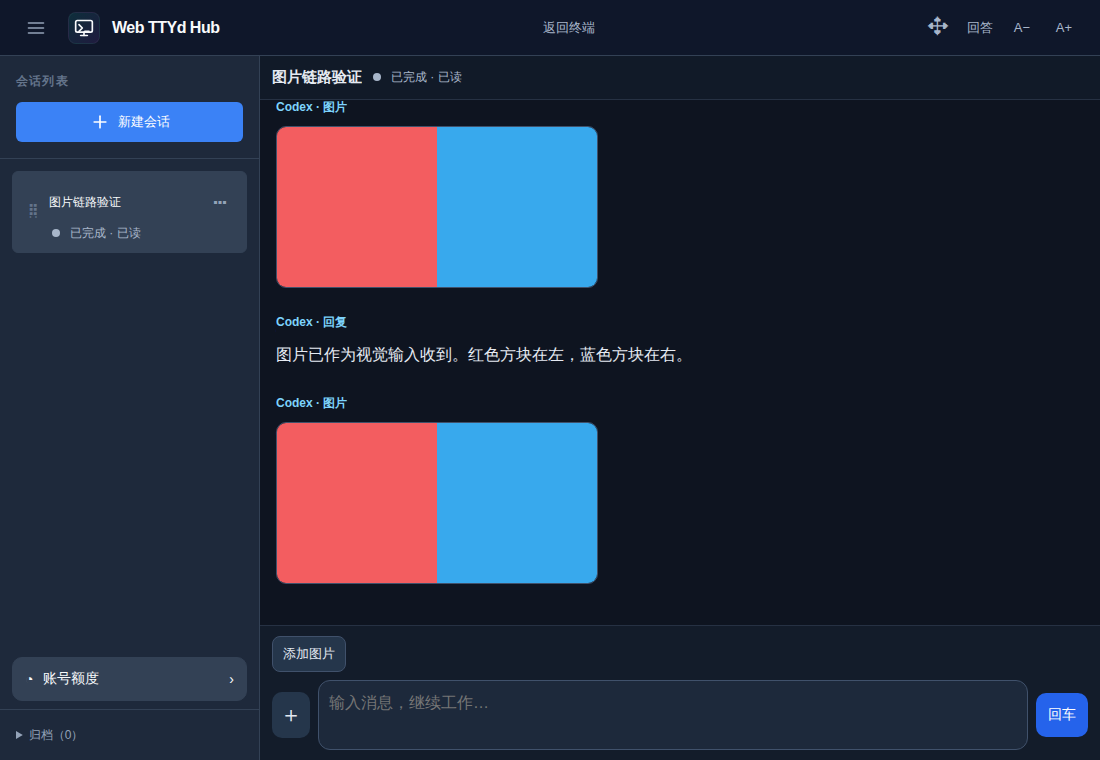
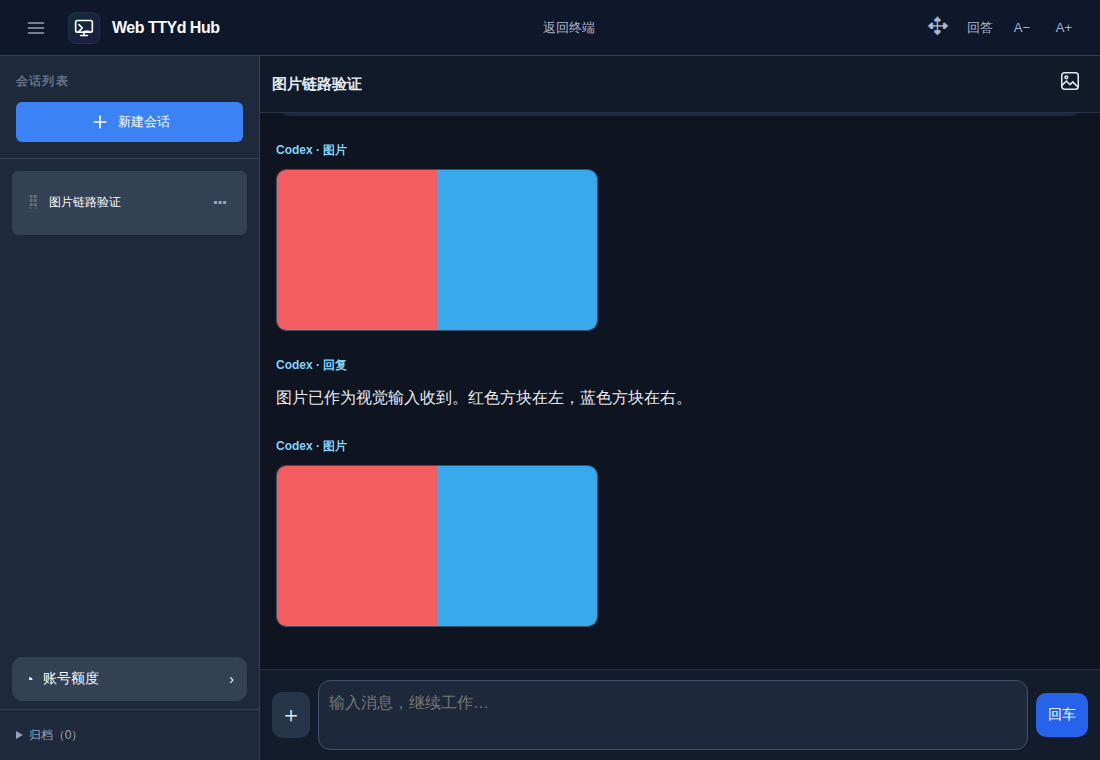
Keep image drafts across reconciliation and refresh on native foreground

diff --git a/frontend/src/components/MobileTerminal.vue b/frontend/src/components/MobileTerminal.vue
@@ -1,4 +1,5 @@
 <script setup>
+import { pageHidden, receiveVisibility } from '../utils/page-visibility.mjs'
 import { hubUrl } from '../utils/base.mjs'
 
 import { ref, shallowRef, shallowReactive, markRaw, computed, watch, nextTick, onBeforeUnmount } from 'vue'
@@ -20,15 +21,15 @@ const store = useSessionStore()
 const session = computed(() => store.sessions.find(s => s.name === store.current))
 const status = computed(() => session.value ? store.activityStatus(session.value) : null)
 const now = ref(Date.now())
-let lastHidden = document.hidden
+let lastHidden = pageHidden()
 const elapsedTimer = setInterval(() => {
   now.value = Date.now()
   // Some WebViews change visibility after the initial read was skipped without
   // delivering visibilitychange. Reuse the clock to recover that missed read.
-  if (document.hidden !== lastHidden) {
+  if (pageHidden() !== lastHidden) {
     // Replace a list request suspended during startup too; otherwise cached
     // metadata can keep the reader gated until that old request times out.
-    if (!document.hidden) void store.fetchSessions().catch(() => {})
+    if (!pageHidden()) void store.fetchSessions().catch(() => {})
     resumeReading()
   }
 }, 1000)
@@ -185,7 +186,7 @@ async function refresh(token = epoch, fresh = false) {
   const selected = session.value, view = props.showExecution ? 'full' : 'answer'
   // A cached name may now belong to a replacement session on the server. Keep
   // disk readable, but wait for the authoritative list before requesting data.
-  if (!selected || document.hidden || store.cachedSnapshot) return
+  if (!selected || pageHidden() || store.cachedSnapshot) return
   const sequence = ++refreshSequence
   const current = () => !disposed && token === epoch && sequence === refreshSequence
   try {
@@ -199,10 +200,11 @@ async function refresh(token = epoch, fresh = false) {
     }
   } catch (e) {
     if (current()) error.value = Object.keys(content.value).length ? '正在显示缓存，暂时无法更新。' : e.message
-  } finally { if (current() && !document.hidden && !store.cachedSnapshot) { clearTimeout(timer); timer = setTimeout(() => refresh(token), refreshDelay()) } }
+  } finally { if (current() && !pageHidden() && !store.cachedSnapshot) { clearTimeout(timer); timer = setTimeout(() => refresh(token), refreshDelay()) } }
 }
-function resumeReading() {
-  lastHidden = document.hidden
+function resumeReading(event) {
+  receiveVisibility(event)
+  lastHidden = pageHidden()
   if (!lastHidden) { alignReading(); void refresh(epoch, true) }
   else clearTimeout(timer)
 }
@@ -210,6 +212,7 @@ function restoredPage(event) { if (event.persisted) resumeReading() }
 document.addEventListener('visibilitychange', resumeReading)
 window.addEventListener('online', resumeReading)
 window.addEventListener('focus', resumeReading)
+window.addEventListener('hub:visibility', resumeReading)
 window.addEventListener('pageshow', restoredPage)
 watch(() => [store.current, session.value?.activity?.phase, session.value?.activity?.busy,
   session.value?.activity?.completed, session.value?.activity?.available, session.value?.activity?.contentRevision], (value, previous) => {
@@ -311,7 +314,7 @@ onBeforeUnmount(() => {
   readingResize?.disconnect()
   inputRequest?.abort()
   document.removeEventListener('visibilitychange', resumeReading); window.removeEventListener('online', resumeReading)
-  window.removeEventListener('focus', resumeReading); window.removeEventListener('pageshow', restoredPage)
+  window.removeEventListener('focus', resumeReading); window.removeEventListener('hub:visibility', resumeReading); window.removeEventListener('pageshow', restoredPage)
 })
 </script>
 <template>
@@ -325,8 +328,9 @@ onBeforeUnmount(() => {
       <div class="mobile-session-header">
         <div class="mobile-title-row">
           <div class="mobile-session-title" :title="session.displayName || session.name">{{ session.displayName || session.name }}</div>
-          <ActivityBadge class="inline-status" :status="status" :title="elapsed ? `${status.detail}（本轮已运行 ${elapsed}）` : status.detail" />
+          <ActivityBadge v-if="!['idle', 'unread'].includes(status.state)" class="inline-status" :status="status" :title="elapsed ? `${status.detail}（本轮已运行 ${elapsed}）` : status.detail" />
           <span v-if="elapsed" class="elapsed">已运行 {{ elapsed }}</span>
+          <ImageAttachments v-if="canAttach && session.status === 'running'" compact preview-target=".mobile-image-drafts" ref="imagePicker" :key="attachmentKey" v-model="attachments" :session="session" :disabled="sending || store.cachedSnapshot" @busy="imageUploading = $event" @error="inputErrors[session.name] = $event" />
         </div>
         <!-- Unavailable status stays in the title row; it needs no separate action or reading space. -->
         <div v-if="['waiting', 'error', 'interrupted'].includes(status.state) && !(status.state === 'waiting' && questionPending)" class="status-guidance" :class="status.state">
@@ -370,7 +374,7 @@ onBeforeUnmount(() => {
       <p v-if="inputError || (error && !answerUnavailable)" class="mobile-error" role="alert">{{ inputError || error }}</p>
       <CodexQuestions v-if="!store.cachedSnapshot && session.status === 'running' && session.activity?.detected" :session-name="session.name" @handled="refresh()" @pending="questionPending = $event" @support="questionSupport = $event" />
       <form v-if="session.status === 'running'" class="composer" @submit.prevent="send()" @paste.capture="canAttach && imagePicker?.paste($event)">
-        <ImageAttachments v-if="canAttach" ref="imagePicker" :key="attachmentKey" v-model="attachments" :session="session" :disabled="sending || store.cachedSnapshot" @busy="imageUploading = $event" @error="inputErrors[session.name] = $event" />
+        <div class="mobile-image-drafts"></div>
         <p v-if="inputNotice" class="input-notice" role="status">{{ inputNotice }}</p>
         <div v-if="more" class="keys"><button v-for="key in ['Escape', 'Tab', 'C-c']" :key="key" type="button" :disabled="sending || store.cachedSnapshot" @click="send(key, false)">{{ {Escape:'Esc', Up:'↑', Down:'↓', Left:'←', Right:'→', Tab:'Tab', 'C-c':'中断'}[key] }}</button><button type="button" :disabled="sending || store.cachedSnapshot || !draft" @click="send(null)">仅输入</button></div>
         <div class="compose-row"><button type="button" class="extra" :aria-expanded="more" aria-label="终端按键" @click="more = !more">＋</button>
@@ -393,6 +397,8 @@ onBeforeUnmount(() => {
 .mobile-session-header { padding:10px 12px; border-bottom:1px solid #263143; background:#111a28; flex-shrink:0; }
 .mobile-title-row { display:flex; align-items:center; gap:8px; min-width:0; }
 .mobile-session-title { min-width:0; font-size:15px; font-weight:600; line-height:1.5; white-space:nowrap; overflow:hidden; text-overflow:ellipsis; }
+.mobile-title-row > :deep(.image-attachments) { margin:0 0 0 auto; flex-shrink:0; }
+.mobile-image-drafts:empty { display:none; }
 .inline-status { flex-shrink:0; white-space:nowrap; }
 .inline-status.busy :deep(.activity-dot) { display:none; }
 .elapsed { display:none; color:#98a9c0; font-size:11px; font-variant-numeric:tabular-nums; flex-shrink:0; white-space:nowrap; }

diff --git a/frontend/src/components/ImageAttachments.vue b/frontend/src/components/ImageAttachments.vue
@@ -1,7 +1,7 @@
 <script setup>
 import { ref, onBeforeUnmount } from 'vue'
 import { hubUrl } from '../utils/base.mjs'
-const props = defineProps({ session: Object, modelValue: { type: Array, default: () => [] }, disabled: Boolean })
+const props = defineProps({ session: Object, modelValue: { type: Array, default: () => [] }, disabled: Boolean, compact: Boolean, previewTarget: String })
 const emit = defineEmits(['update:modelValue', 'busy', 'error'])
 const picker = ref(null), uploading = ref(false)
 let disposed = false
@@ -38,11 +38,13 @@ defineExpose({ addFiles, paste })
 <template>
   <div class="image-attachments">
     <input ref="picker" class="image-file-input" type="file" accept="image/png,image/jpeg,image/webp,image/gif" multiple @change="addFiles($event.target.files)">
-    <button type="button" class="image-pick" :disabled="disabled || uploading" @click="picker.click()">{{ uploading ? '上传中…' : '添加图片' }}</button>
+    <button type="button" class="image-pick" :class="{ compact }" aria-label="添加图片" :title="uploading ? '上传中…' : '添加图片'" :disabled="disabled || uploading" @click="picker.click()"><span v-if="compact && uploading" aria-hidden="true">…</span><svg v-else-if="compact" aria-hidden="true" width="22" height="22" viewBox="0 0 24 24" fill="none" stroke="currentColor" stroke-width="1.7"><rect x="3" y="3" width="18" height="18" rx="3"/><circle cx="8" cy="8" r="1.5"/><path d="m3 17 5-5 4 4 3-3 6 6"/></svg><span v-else>{{ uploading ? '上传中…' : '添加图片' }}</span></button>
+    <Teleport :to="previewTarget || 'body'" :disabled="!previewTarget" defer>
     <div v-for="(item, index) in modelValue" :key="`${item.id}:${index}`" class="attachment">
       <img :src="hubUrl(`/api/sessions/${encodeURIComponent(session.name)}/images/${item.id}`)" :alt="item.name">
       <button type="button" :disabled="disabled || uploading" :aria-label="`移除图片 ${item.name}`" @click="emit('update:modelValue', modelValue.filter((_, i) => i !== index))">×</button>
     </div>
+    </Teleport>
   </div>
 </template>
 <style scoped>
@@ -50,7 +52,8 @@ defineExpose({ addFiles, paste })
 .image-file-input { display:none; }
 button { min-height:36px; border:1px solid #40516b; border-radius:8px; background:#25364b; color:#e2e8f0; padding:6px 10px; cursor:pointer; }
 button:disabled { opacity:.55; cursor:default; }
-.attachment { position:relative; width:64px; height:56px; }
+.image-pick.compact { min-height:36px; min-width:36px; font-size:23px; padding:0 6px; background:transparent; border:0; }
+.attachment { display:inline-block; margin:0 8px 8px 0; position:relative; width:64px; height:56px; }
 .attachment img { width:100%; height:100%; object-fit:cover; border-radius:6px; }
 .attachment button { position:absolute; top:-5px; right:-5px; min-height:24px; width:24px; padding:0; border-radius:50%; background:#131c2a; }
 </style>

diff --git a/frontend/src/stores/sessions.js b/frontend/src/stores/sessions.js
@@ -1,3 +1,4 @@
+import { pageHidden, receiveVisibility } from '../utils/page-visibility.mjs'
 import { hubUrl } from '../utils/base.mjs'
 import { pruneContent } from '../utils/session-content.mjs'
 import { defineStore } from 'pinia'
@@ -26,7 +27,7 @@ export const useSessionStore = defineStore('sessions', () => {
     return () => { if (readGuard === guard) readGuard = null }
   }
   function markRead() {
-    if (document.hidden || !document.hasFocus() || connectionIssue.value) return
+    if (pageHidden() || !document.hasFocus() || connectionIssue.value) return
     const session = sessions.value.find(s => s.name === current.value)
     const state = session && activityState(session)
     // Keep old history read on upgrade. Once its current version really reaches
@@ -406,19 +407,21 @@ export const useSessionStore = defineStore('sessions', () => {
     document.addEventListener('visibilitychange', resume)
     window.addEventListener('online', resume)
     window.addEventListener('focus', resume)
+    window.addEventListener('hub:visibility', resume)
     window.addEventListener('pageshow', resumePage)
   }
 
   // Phones can suspend a WebSocket without delivering close. Refresh on return
   // and periodically reconcile, even when no activity notification arrives.
   const refreshVisible = (fresh = false) => {
-    if (document.hidden) return
+    if (pageHidden()) return
     if (listRequest && !fresh) { refreshPending = true; return }
     refreshPending = false
     fetchSessions().catch(() => {})
   }
-  const resume = () => {
-    if (document.hidden) { persistMetadata(); return }
+  const resume = event => {
+    receiveVisibility(event)
+    if (pageHidden()) { persistMetadata(); return }
     refreshVisible(true)
     sync.retry()
     // WebViews can keep an OPEN socket whose network connection died in the
@@ -428,7 +431,7 @@ export const useSessionStore = defineStore('sessions', () => {
     connectWs()
   }
   // A restored browser page or Android WebView can return to the foreground
-  // without changing document.hidden. Neither path should need a terminal input.
+  // without changing pageHidden(). Neither path should need a terminal input.
   const resumePage = event => { if (event.persisted) resume() }
   let refreshTimer
   onScopeDispose(() => {
@@ -438,7 +441,7 @@ export const useSessionStore = defineStore('sessions', () => {
     if (ws) { ws.onclose = null; ws.close() }
     document.removeEventListener('visibilitychange', resume)
     window.removeEventListener('online', resume)
-    window.removeEventListener('focus', resume)
+    window.removeEventListener('focus', resume); window.removeEventListener('hub:visibility', resume)
     window.removeEventListener('pageshow', resumePage)
   })
   window.addEventListener('pagehide', persistMetadata)

diff --git a/frontend/src/components/TerminalView.vue b/frontend/src/components/TerminalView.vue
@@ -23,7 +23,7 @@ const windowsSrc = computed(() => store.platform === 'win32' && runningName.valu
 const host = ref(null);
 const imagePicker = ref(null), attachments = ref([]), imageUploading = ref(false), attaching = ref(false), imageError = ref('');
 const canAttach = computed(() => currentSession.value?.shell === 'codex' || currentSession.value?.activity?.detected);
-watch(() => [store.current, currentSession.value?.createdAt], () => { attachments.value = []; imageError.value = ''; imageUploading.value = false; });
+watch([() => store.current, () => currentSession.value?.createdAt], () => { attachments.value = []; imageError.value = ''; imageUploading.value = false; });
 async function attachImages() {
   const selected = currentSession.value, images = attachments.value.slice();
   if (!selected || !images.length || attaching.value) return;

diff --git a/frontend/src/components/SessionCard.vue b/frontend/src/components/SessionCard.vue
@@ -147,7 +147,7 @@ function cancelRemove(e) {
       <p v-if="error && !editing && !confirming" role="alert">{{ error }}</p>
       <div v-if="!editing && !confirming" class="session-info">
         <span v-if="session.archivedAt">{{ minutesLeft }} 分钟后清理</span>
-        <ActivityBadge :status="store.activityStatus(session)" />
+        <ActivityBadge v-if="!['idle', 'unread'].includes(store.activityStatus(session).state)" :status="store.activityStatus(session)" />
         <span v-if="!session.archivedAt && store.isPinned(session.name)" class="pinned-label">置顶</span>
       </div>
     </div>

diff --git a/android/app/src/main/java/cn/guihualab/ttydhub/MainActivity.java b/android/app/src/main/java/cn/guihualab/ttydhub/MainActivity.java
@@ -42,6 +42,7 @@ public class MainActivity extends Activity {
     private String server = "";
     private AlertDialog loginDialog;
     private boolean pageFailed;
+    private boolean activityVisible;
     private static final int PICK_IMAGES = 42;
     private ValueCallback<Uri[]> imageCallback;
     private LoginVault loginVault;
@@ -230,6 +231,7 @@ public class MainActivity extends Activity {
                     status.setVisibility(View.GONE);
                     rememberConnected(address);
                 }
+                notifyPageVisibility();
                 CookieManager.getInstance().flush();
             }
             @Override public boolean shouldOverrideUrlLoading(WebView v,WebResourceRequest request) {
@@ -348,7 +350,10 @@ public class MainActivity extends Activity {
         }
         finishImagePicker(canControl() ? images : null);
     }
-    @Override protected void onPause() { if (web != null) web.onPause(); super.onPause(); }
-    @Override protected void onResume() { super.onResume(); if (web != null) web.onResume(); }
+    private void notifyPageVisibility() {
+        if (canControl()) web.evaluateJavascript("window.dispatchEvent(new CustomEvent('hub:visibility',{detail:{visible:" + activityVisible + "}}))", null);
+    }
+    @Override protected void onPause() { activityVisible = false; notifyPageVisibility(); if (web != null) web.onPause(); super.onPause(); }
+    @Override protected void onResume() { super.onResume(); activityVisible = true; if (web != null) web.onResume(); notifyPageVisibility(); }
     @Override protected void onDestroy() { destroyWeb(); super.onDestroy(); }
 }

diff --git a/docs/images.md b/docs/images.md
@@ -1,6 +1,6 @@
 # 图片上传与聊天记录预览
 
-手机在输入框上方点「添加图片」，选图、填写说明后发送；电脑终端支持按钮选图和 Ctrl+V / Cmd+V 粘贴截图，上传后点「加入终端输入区」，再在 Codex 输入区填写说明并提交。图片不会经过服务器的 X11 剪贴板。支持 PNG、JPEG、WebP、GIF，每张最大 20 MB，每次最多 8 张。普通 shell 不显示附件入口。
+手机在对话标题最右侧点图片按钮，选图、填写说明后发送；电脑终端支持按钮选图和 Ctrl+V / Cmd+V 粘贴截图，上传后点「加入终端输入区」，再在 Codex 输入区填写说明并提交。图片不会经过服务器的 X11 剪贴板。支持 PNG、JPEG、WebP、GIF，每张最大 20 MB，每次最多 8 张。普通 shell 不显示附件入口。
 
 手机「回答」视图直接显示图片；电脑点顶部「聊天记录」进入同一阅读界面，点「返回终端」恢复交互终端。上传的图片、Codex `view_image` 查看结果及生成图片的明确记录会显示真实缩略图，点击可放大。刷新后从服务器记录重新读取，不要求再发消息。仅在模型文字中提及文件名不会自动开放该文件，也不会自动抓取外部图片网址。
 
@@ -32,3 +32,11 @@
 真实测试页面（仅合成图片和文字）：
 
 ![图片聊天记录](audits/2026-10-30/images.png)
+
+## 1.6.1：附件保留与前台核对
+
+未发送的桌面附件只在会话名称或代次真正变化时清空，不因每 5 秒的列表核对被移除。手机选图入口移到标题最右侧，空附件不占输入框上方空间；完成/已读文字从对话标题与展开列表移除，保留顶部未读/工作数量及进行中状态。
+
+列表原有每 5 秒核对继续保留。Android 1.6.1（versionCode 9）在进入前后台和页面加载完成时发送 Activity 可见性；网页以原生生命周期判定是否可读，避免 WebView 的 document.hidden 残留导致跳过核对与正文读取。浏览器继续沿用 Page Visibility。未增加另一套轮询或恢复策略。
+
+新增验证：附件等待 11 秒、跨两轮列表刷新仍保留；旧包无前台通知时，模拟残留 hidden 可复现不刷新，新包通知后立即取得最终回复并保持周期核对。完成 Android 构建、Lint 和同签名检查，仍未完成 M153 真机验证。

diff --git a/android/README.md b/android/README.md
@@ -181,3 +181,7 @@ http://42.192.115.30:8182/downloads/ttyd-hub/ttyd-hub-latest.apk
 ### 1.6：图片选择
 
 新增系统选图回调，对应网页的「添加图片」。需覆盖安装 1.6.0（versionCode 8），包名、签名与登录数据保持兼容；没有新增存储权限。图片上传到当前连接的 Hub 后才能交给 Codex。旧包仍可显示聊天图片，选图需更新外壳。页面继续在线更新，详见 [图片链路与终端协议验证](../docs/images.md)。当前已完成构建、Lint 和签名检查，未完成 M153 真机选图测试。
+
+### 1.6.1：前台同步与紧凑选图
+
+APP 明确通知网页前后台变化，避免保留在后台的 WebView 残留隐藏状态使刷新被跳过。前台立即核对，继续使用原有 5 秒周期；需要覆盖安装 1.6.1（versionCode 9），保留原签名和登录数据。选图按钮移至对话标题右侧、附件保留修复和重复状态文案精简属于网页更新。浏览器模拟验证生命周期，尚未完成 M153 真机测试。
